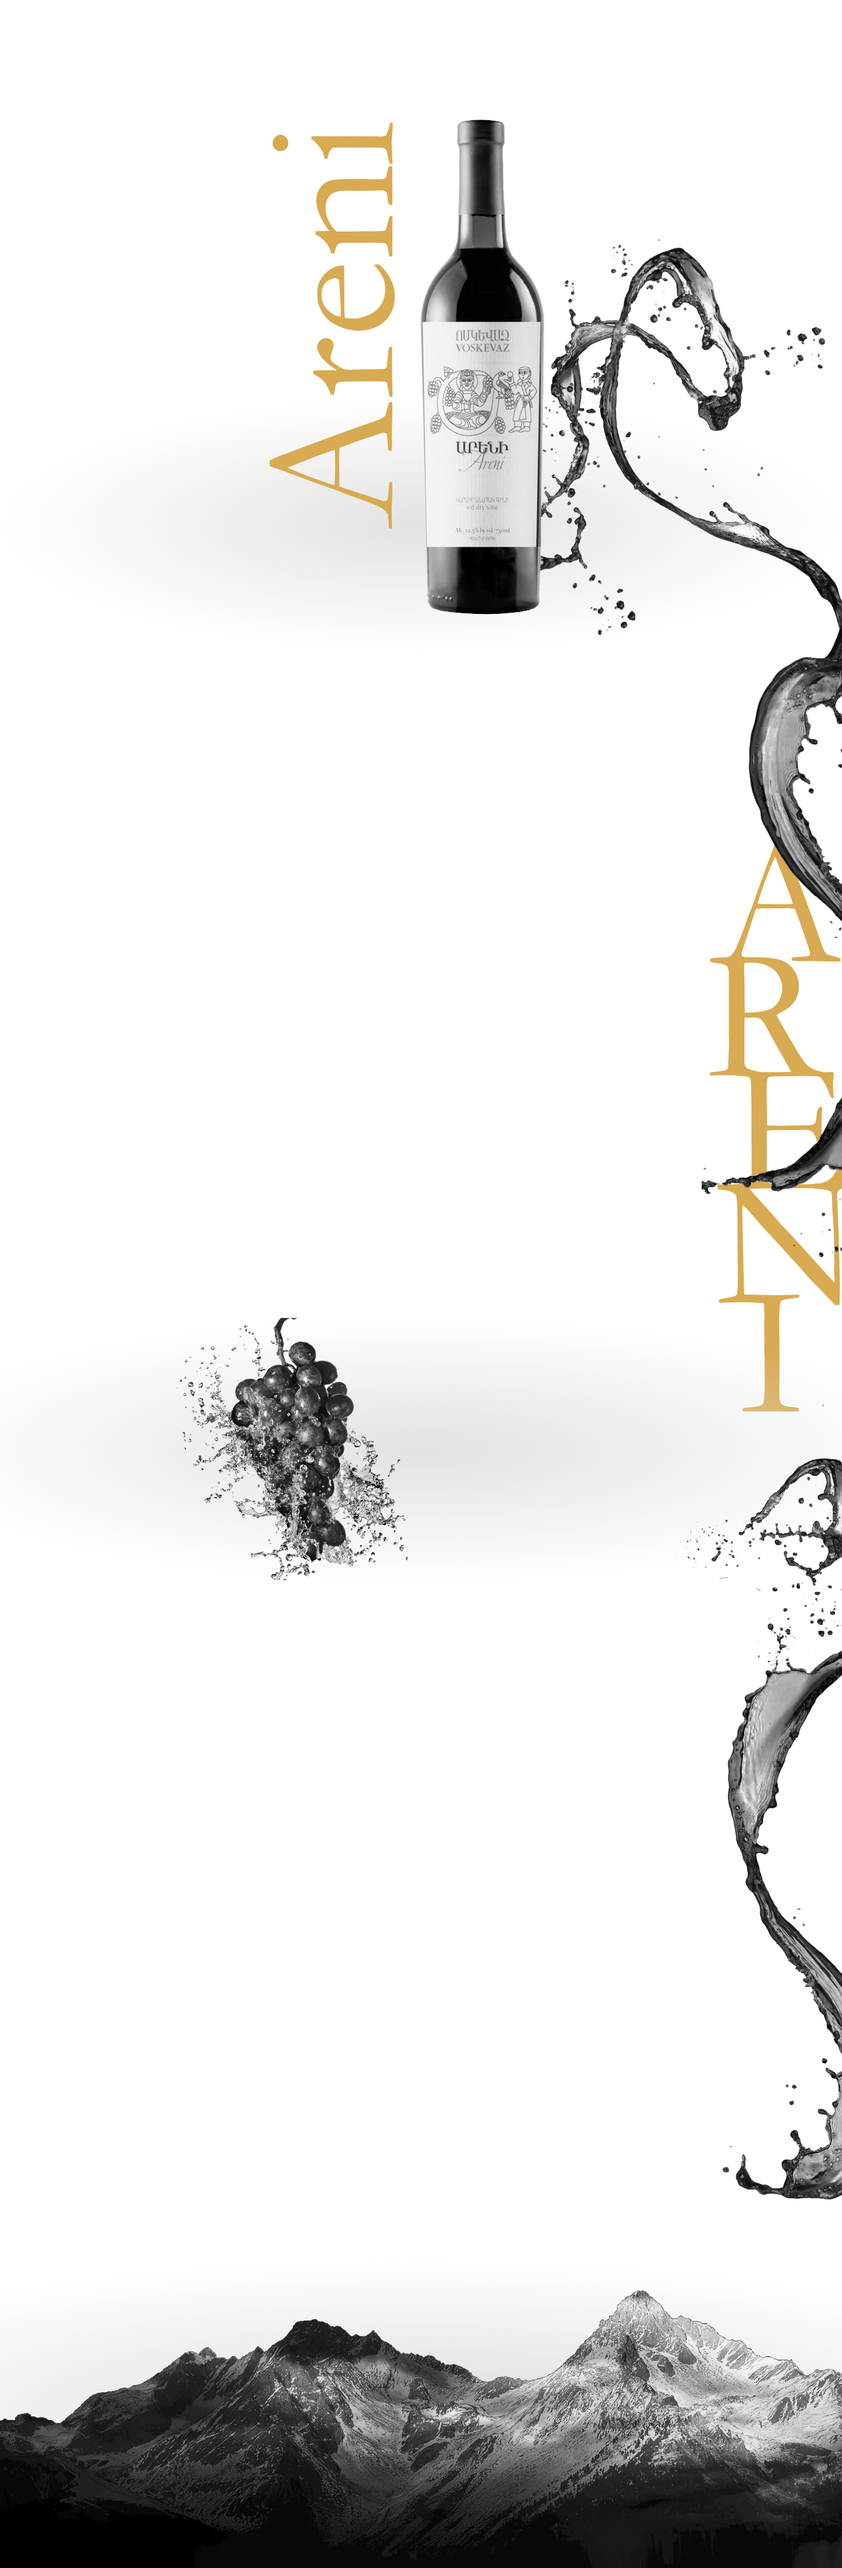
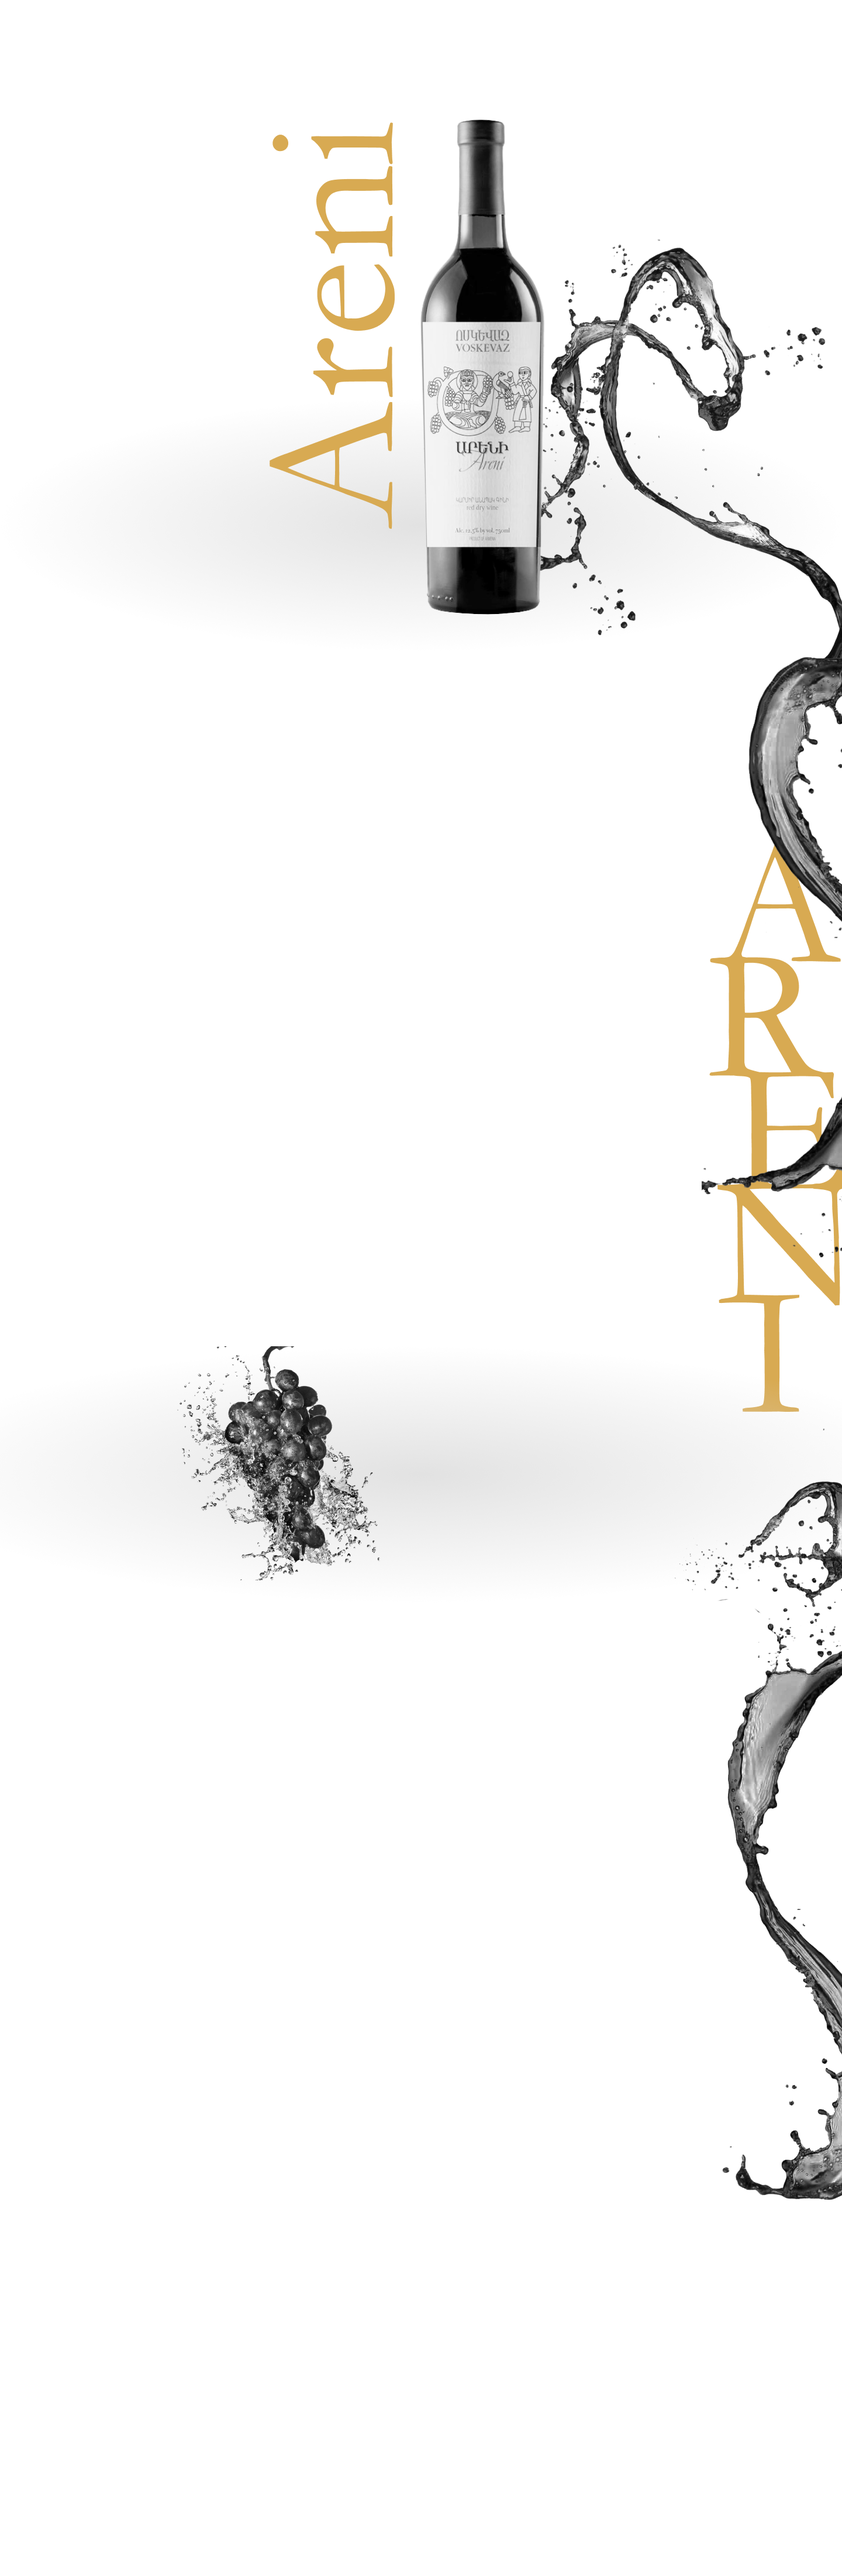
+

diff --git a/css/content.css b/css/content.css
@@ -14,46 +14,38 @@ article h1, article h2, article h3, article h4{
   display: flex;
   align-items: center;
   justify-content: center;
-  margin-top: 100px;
 }
 article h1{
-  margin: 1000px 150px 50px 300px;
+  margin: 1000px 150px 60px 350px;
 }
 article h2{
-  margin-bottom: 100px;
+  margin: 120px 50px 110px 270px;
 }
 article h3{
-  margin-top: 0;
-  margin-bottom: 100px;
+  margin: 0 25px 110px 200px;
 }
 article h4{
-  margin-bottom: 50px;
-}
-
-.blockquote{
-  width: 450px;
-  height: 200px;
-  margin: 200px 290px 200px 700px;
-}
-
-article h2 {
-  font-size: 160px;
-  height: 150px;
-  font-family: 'EB Garamond', serif;
-  font-style: italic;
-  position: relative;
-  display: flex;
-  margin-left: 200px;
-  margin-right: 50px;
-}
-p {
-  font-size: 28px;
-  line-height: 31.5px;
-  margin-bottom: 25px;
+  margin: 100px 0 60px 175px;
 }
 blockquote {
   font-size: 26px;
   font-family: 'EB Garamond', serif;
   font-style: italic;
   position: relative;
+}
+p {
+  font-size: 28px;
+  line-height: 31.5px;
+  margin-bottom: 25px;
+}
+article img{
+  display: block;
+  width: 100%;
+  margin: 0 auto;
+  margin-top: 100px;
+}
+.blockquote{
+  width: 450px;
+  height: 200px;
+  margin: 200px 290px 210px 700px;
 }

diff --git a/Areni.html b/Areni.html
@@ -96,7 +96,7 @@
     <br>
     <p>Многие этапы работы выполняются вручную, это позволяет добиться очень высокого качества продукции. </p>
   </div>
-
+  <img src="img/foot.png" alt="">
 </article>
 </body>
 </html>
